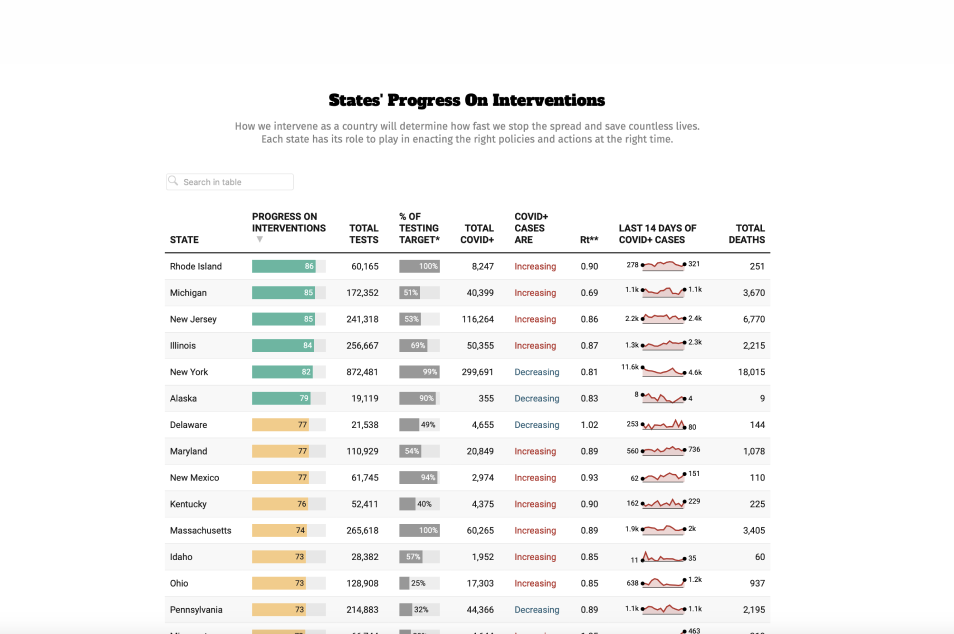
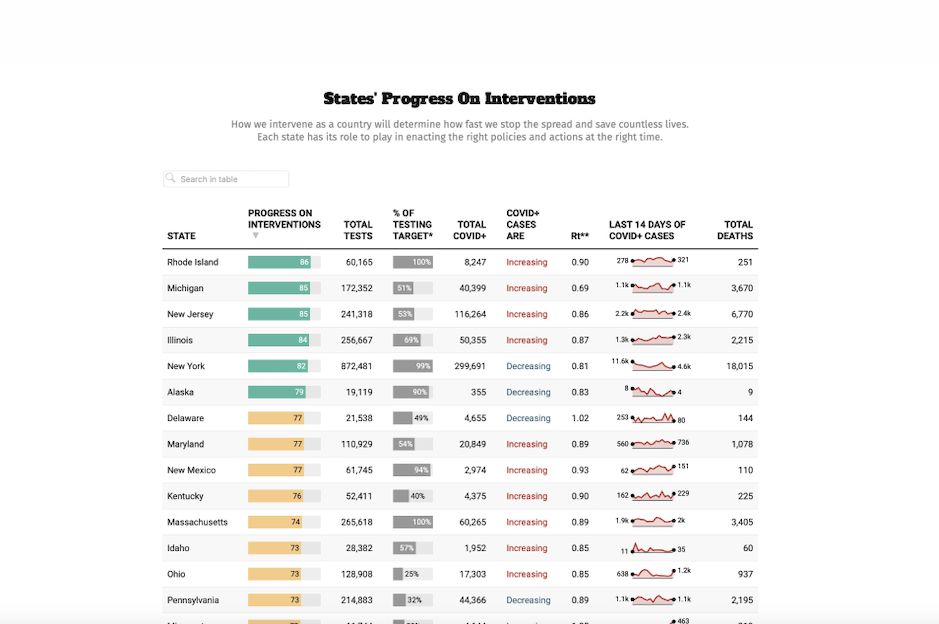
chore: Resize images

diff --git a/src/components/pages/homepage/who-uses.js b/src/components/pages/homepage/who-uses.js
@@ -53,10 +53,7 @@ const HomepageWhoUses = () => {
             >
               COVID-19 Testing Insights Initiative
             </a>
-            , which brings data and expert analysis together in one place. The
-            initiative is designed to help policymakers and the public
-            understand the trajectory of the pandemic, and make decisions about
-            the path forward.
+            , which brings data and expert analysis together in one place.
           </p>
         </Col>
         <Col width={[4, 6, 4]}>
@@ -84,9 +81,7 @@ const HomepageWhoUses = () => {
           <p>
             Created by a group of public health and crisis experts,{' '}
             <a href="https://covidexitstrategy.org">covidexitstrategy.org</a>{' '}
-            identifies critical interventions needed to stop the spread of
-            COVID-19, and urges government decision-makers to apply them. They
-            use our data to power a dashboard comparing each state&#8217;s
+            uses our data to power a dashboard comparing each state&#8217;s
             interventions and testing levels with case counts and deaths over
             time.
           </p>

diff --git a/src/components/pages/homepage/who-uses.module.scss b/src/components/pages/homepage/who-uses.module.scss
@@ -2,4 +2,10 @@
   img {
     border: 1px solid $color-slate-200;
   }
+  h3 {
+    @include margin(16, top bottom);
+  }
+  p {
+    margin: 0;
+  }
 }
